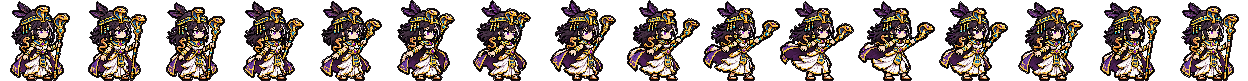
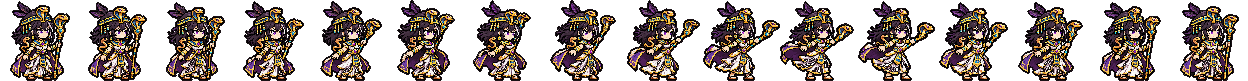
Babies & Beasts: gold Tan and gold Nin attack animations from the owner's GIFs
gif_anim.py now cuts the soft light fringe and background caught inside the
figure on white-background GIFs; Cleopatra's strip re-made with cleaner edges.

Claude-Session: https://claude.ai/code/session_01TXxUxRZvEUW5HuLc4se7D5

diff --git a/bb.html b/bb.html
@@ -832,7 +832,8 @@ const TKEY=['white','green','purple','red','gold'],KH=54,ALL5=['white','green','
   // or class_tier (curse_gold); n frames of cw x ch,
   // feet at (fx, fy), h0 = frame 1's height (drawn as tall as the form picture). Frame 0 = standing; frames before `hit` wind up
   // during the last `lead` s before a shot, the rest play for `post` s after it (both shrink when the kid shoots faster)
-  FANIM={cleo:{n:16,cw:78,ch:81,fx:36,fy:81,h0:80,hit:9,lead:.5,post:.45},wukong:{n:16,cw:76,ch:81,fx:32,fy:78,h0:73,hit:7,lead:.5,post:.45}},
+  FANIM={cleo:{n:16,cw:78,ch:81,fx:36,fy:81,h0:80,hit:9,lead:.5,post:.45},wukong:{n:16,cw:76,ch:81,fx:32,fy:78,h0:73,hit:7,lead:.5,post:.45},
+    warrior_gold:{n:16,cw:93,ch:109,fx:42,fy:104,h0:91,hit:6,lead:.5,post:.45},assassin_gold:{n:12,cw:115,ch:119,fx:57,fy:118,h0:118,hit:4,lead:.4,post:.4}},
   KPX={assassin_gold:[35,37],warrior_gold:[41,40],mage_gold:[37,47],support_gold:[30,55],curse_gold:[50,40],hunter_gold:[50,52]};
 function kidF(im){return im&&im.pxs&&im.naturalHeight?im.naturalHeight/(im.pxs>1?im.pxs:100):1}  // height factor for KPX pictures (pxs>1 = that many picture px per KH)
 // a kid picture on a small canvas: crop=true gives a square head shot (avatars), else the whole kid with room around
@@ -1143,7 +1144,7 @@ function drawKid(p,s,u,drag){const S=drag||SLOTS[s],T=TIER[u.t],im=formImg(u.f)|
     // pose (kidPose): face the target, class attack move, jumps and pops
     const f=P.f,sm=sc*SC*DPR<.95,OL=olCol(u,s);
     if(u.ua>0){const a=1-u.ua/.7;ctx.strokeStyle=u.b?BEAST[u.b].col:u.t===5?'rgb('+hsl2((G.t*300)%360)+')':u.t===4?'#ffd75a':CLS[u.c].col;ctx.globalAlpha=1-a;ctx.lineWidth=4;ctx.beginPath();ctx.ellipse(x,y,20+90*a,6+28*a,0,0,6.28);ctx.stroke();ctx.globalAlpha=1}
-    if(u.at>0&&u.c==='assassin')for(const g of [.35,.7]){ctx.save();ctx.globalAlpha=.22;ctx.translate(Math.round(x+P.dx*g),Math.round(y+P.dy*g+bob+2));if(sm){ctx.imageSmoothingEnabled=true;ctx.imageSmoothingQuality='high'}ctx.scale(f,1);ctx.drawImage(im,-Math.round(w/2),-Math.round(h),w,h);ctx.restore()}
+    if(u.at>0&&u.c==='assassin'&&!FA)for(const g of [.35,.7]){ctx.save();ctx.globalAlpha=.22;ctx.translate(Math.round(x+P.dx*g),Math.round(y+P.dy*g+bob+2));if(sm){ctx.imageSmoothingEnabled=true;ctx.imageSmoothingQuality='high'}ctx.scale(f,1);ctx.drawImage(im,-Math.round(w/2),-Math.round(h),w,h);ctx.restore()}
     if(u.at>0&&!FA&&(u.c==='mage'||u.c==='curse')){const a=1-u.at/ANIM[u.c];glow(x+P.dx+f*w*.38,y+P.dy-h*.78,20+14*Math.sin(Math.PI*a),u.c==='mage'?'255,170,80':'200,138,255',.55*Math.sin(Math.PI*a))}
     // attack picture in the middle of the swing (same pixel scale as the standing picture, feet lined up)
     let di=im,dw=w,dh=h,ox=-Math.round(w/2);if(u.at>0){const a=1-u.at/(ANIM[u.c]||.3),ai=(u.c==='warrior'?a>.42:a>.12&&a<.9)&&kidAtk(u.c,u.t);
@@ -1449,7 +1450,7 @@ if(HAS_DOM){
   $('#watch').addEventListener('click',()=>{$('#end').hidden=true});
   $('#toLobby').addEventListener('click',toLobby);
   // "what's new": opens once per update (bump VER and NEWS together)
-  const VER='2026-11-05i',NEWS=['🐒 ซุนหงอคงขยับได้แล้ว: ยกกระบองขึ้นเหนือหัวแล้วฟาดลงทุกครั้งที่ตี · ไม้ตายกระโดดก็ง้างกลางอากาศแล้วฟาดตอนลง','🐍 คลีโอพัตราขยับได้แล้ว: ยืนบนลานแล้วยกคทางูขึ้นฟาดทุกครั้งที่ยิงคำสาป (ภาพเคลื่อนไหวที่เจ้าของเกมส่งมา) · ไม้ตายเล่นท่าเต็มชุด','🟩 ทดลอง "ภาพพิกเซลเท่ากัน": กด ⏸ แล้วกดปุ่มเปิด/ปิด · เปิดแล้วทุกอย่างในสนามใช้พิกเซลขนาดเดียวกัน ขยายแบบเต็มจำนวนเท่า (ภาพคม ไม่เบลอ ไม่เบี้ยว) เลขดาเมจเป็นตัวพิกเซล · เด็กจะหยาบลง (เล็กลงมาเท่าพิกเซลแมพ) ลองแล้วบอกว่าชอบแบบไหน','🎲 สุ่มสนามทุกรอบ (ค่าเริ่มต้น) · ยังกดลูกศรที่ปุ่มแมพเลือกสนามเองได้ · 🦖 หน้าคำสั่งเจนรูปมีแท็บฟอร์มทีเร็กซ์ 6 ตัวแล้ว','✚ สนามใหม่ "สี่แยกกลางป่า": ทางวนรอบนอก + ทางผ่ากลางเป็นกากบาท ลานแบ่ง 4 ห้อง (ห้องละ 3×2 รวม 24 ช่อง) ทุกช่องมีทางผ่านใกล้ ๆ · เลือกที่ล็อบบี้ (ปุ่มเปลี่ยนแมพ)','🌈 เด็กแต่ละระดับดูเก่งขึ้นเป็นขั้น: เขียวมีวงเวท · ม่วงมีขอบเรือง · แดงมีไฟลุกหลังตัว · ทองมีรัศมีแสงกับวงเวททอง · รุ้งมีรัศมีสายรุ้ง ไฟหลากสี ขอบเปลี่ยนสี ตัวใหญ่ขึ้น · สัตว์ในตำนานมีลมหมุนสีเขียวมรกต','🗺 ช่องเล็กลง ทางเดินเข้ามาชิดลาน มุมทางมนขึ้น · รอบลานมีวิวแมพมากขึ้น','🐾 ตัวใหม่! สัตว์ในตำนาน 3 ตัว ผสมจากเด็กแดง 2 ตัว: 🦖 ไดโนเสาร์ = แทน + จันทร์ (กระทืบพื้น คำรามให้เพื่อนตีเร็ว ไม้ตายอุกกาบาตยักษ์) · 🐉 มังกร = ราตรี + ฟ้า (พ่นไฟตามทาง ไม้ตายพายุเพลิง) · 🦊 จิ้งจอกเก้าหาง = นิล + หมอก (ไฟจิ้งจอก ทำให้ปีศาจหลงตีกันเอง) · แตะเด็กแดงดูสูตร · รูปจริงกำลังมา','💥 มันส์ขึ้นแบบในคลิป: เลขดาเมจตัวใหญ่เอียง ไล่สี โดนแรงเลขยิ่งใหญ่ ตีรัวเลขซ้อนเป็นแถว · ไม้ตายจอสั่น แสงวาบ ภาพค้างแวบหนึ่ง (แทนลงพื้น พาวเวอร์ช็อต บอสตายแรงสุด)','✨ สกิลแบบพิกเซลชุดใหม่ แนวคลิปที่ส่งมา: แทนลงพื้นเป็นวังวนไฟ · นิลฟันกากบาทม่วง · ราตรีแช่แข็งเป็นดอกน้ำแข็ง ร่างทองเป็นโดมน้ำวน · จันทร์ริบบิ้นชมพูหมุนขึ้น · หมอกร่างทอง/คลีโอเป็นโดมมืด · ขงเบ้งฟ้าผ่าทอง · ฝนธนูมีผลึกเขียว','💥 ของที่คุณทำใน PixelLab เข้าเกมแล้ว: ระเบิด (ดาวตก บอสตาย) · ลูกพลังทอง (พาวเวอร์ช็อตของฟ้า) · ลูกพลาสมา (ราตรียิง) · หมอกพิษ (ไม้ตายหมอก)','📏 เด็กทุกตัวตัวเล็กลงอีก ลานดูโล่งขึ้น','📏 ฟอร์มวีรชนตัวเล็กลง พอดีช่อง ขนาดใกล้ร่างทอง','🎨 ฟอร์มวีรชนมีรูปครบทั้ง 6 ตัวแล้ว: ซุนหงอคง · ฮันโซ · โรบินฮู้ด · เมอร์ลิน · ขงเบ้ง · คลีโอพัตรา','🌈 ฟอร์มสายรุ้งครบ 6 ตัว (ชุดวีรชนที่ทุกคนรู้จัก): แทน → ซุนหงอคง · นิล → ฮัตโตริ ฮันโซ · ฟ้า → โรบินฮู้ด · ราตรี → เมอร์ลิน · จันทร์ → ขงเบ้ง · หมอก → คลีโอพัตรา · ปลดที่ 🧸 เด็กของฉัน','🌈 ฟอร์มสายรุ้งแรก: ฟ้า → โรบินฮู้ด · ปลดที่ 🧸 เด็กของฉัน (ชิ้นส่วนฟ้า 40) · ในเกม ฟ้าแดง 2 ตัว + ตัวที่แตะยิงครบ 500 ดอก → เปลี่ยนฟอร์ม · ปล้นเงินแก๊งที่รวยสุด ยิงทะลุทั้งแนว ฝนธนู 50 ดอก','🎁 ทาเลนต์หลังบอสชุดใหม่ 23 ใบ มีระดับ เงิน ทอง รุ้ง (บอสหลัง ๆ ได้ใบดีขึ้น): ช่องเพลิงลุก สายฟ้าโซ่ ปิดบัญชี เงาแฝด ช่องเติบโต มือทอง · เรียกแฝด กาชาโชคดี ดอกเบี้ย · ปีศาจระเบิดต่อกัน ราชาลาน ช่องรุ้งเจ็ดสี ฯลฯ','⏱ เกมยาวขึ้น (ประมาณ 16 นาที เดิม 12) ช่วงต้นเหมือนเดิม ปีศาจเก่งขึ้นช้าลงตอนกลางเกม','🐻 ไม้ตายใหม่ของแทน: กระโดดออกจากช่อง ไปทุบกลุ่มปีศาจที่หนาสุดบนทาง แล้วกระโดดกลับ · ร่างทองกระโดดทุบ 3 กลุ่มติดกัน','🗺 แมพสวยขึ้น สว่างขึ้น: ค่ายมีบ่อน้ำ ดอกไม้ ธงราว · สนามเด็กเล่นมีสนามหญ้า ต้นไม้ ตารางกระโดด · ชายหาดทรายสว่าง ผ้าเช็ดตัว รอยเท้า','🏹 ฟ้า: ลูกศรทะลุกับพาวเวอร์ช็อตพุ่งไปตามทางเดินปีศาจ (เดิมพุ่งขึ้นแนวตั้ง โดนตัวเดียว)','🌩 เอาปุ่มสกิลแก๊งออกก่อน (เก็บไว้ใส่ให้ตัวละครอื่น)','🎬 แทนขยับจริงแล้ว (ขาว เขียว ม่วง แดง): ยืนหายใจ กะพริบตา · ตีเงื้อค้อนทุบ 4 จังหวะ · ไม้ตายกระโดดทุบ · ตัวอื่นตามมา','🎬 เด็กขยับมากขึ้น: ยืนโยกตัว หายใจ ท่าตีเหวี่ยงแรงขึ้นทุกตัว (ภาพท่าหลายเฟรมกำลังตามมา)','🌩 ❄ 📯 สกิลแก๊ง 3 ปุ่มใหม่ (ด้านล่าง): ฟ้าผ่าตรงที่แตะ · แช่แข็งปีศาจทั้งสนาม · ปลุกใจเด็กทั้งลานตีเร็ว · ใช้แล้วรอคูลดาวน์ บอทก็ใช้','🔨 แทนมีท่าทุบแล้ว (ร่างขาว เขียว ม่วง แดง) · ตอนตีจะเปลี่ยนเป็นท่าเหวี่ยงค้อนจริง ๆ · เด็กตัวอื่นตามมาเร็ว ๆ นี้','💥 เอฟเฟกต์สกิลใหม่ 17 แบบ (จากชุด pixelfx): แทนทุบค้อน พื้นแตก · นิลฟันคู่ ฟันรัว · ฟ้าประกายศร คริ · ราตรีดาวตก ระเบิด นาฬิกาหยุดเวลา วงไฟ · จันทร์วงฮีลใหญ่ ขนนก · หมอกตราสาป ระเบิดมืด · รวมร่างแสงพลัง · ผสมทองเสาแสง · บอสตายระเบิด','⚡ ไม้ตายกดเองได้แล้ว: หลอดฟ้าเต็ม เด็กมีสายฟ้าขึ้น แตะเด็กเพื่อปล่อย เลือกจังหวะเอง (เก็บไว้ตอนบอสก็ได้) · ปุ่ม ⚡ ด้านล่างสลับเป็นออโต้ได้','🎬 เด็กขยับแล้ว: แต่ละคลาสมีท่าตีของตัวเอง (แทนเงื้อทุบ นิลพุ่งฟันมีเงา ฟ้าดึงธนูถอย ราตรีลอยร่าย จันทร์กระโดด หมอกโยกสาป) · เรียกเด็กตกลงมา · รวมร่างเพื่อนบินเข้าหา · ไม้ตายกระโดดสูง · ปีศาจเดินโยก ล้มแล้วจางหาย','✨ ร่างทองมาแล้ว! เด็กแดง + เด็กม่วง 2 ตัวตามสูตร → ร่างทอง ได้สกิลใหม่ 3 อย่างไม่ซ้ำกันเลย (ทุบมึน ปิดฉาก สามศร ไฟบนพื้น หยุดเวลา กระจกสาป ฯลฯ) · แตะเด็กแดงดูสูตร','🔍 ย่อลานกับเด็กลงอีก (ลาน 80% ของจอ เด็กเล็กลงอีกนิด)','🐦⬛ หมอกมีรูปจาก GPT ครบ 5 ระดับแล้ว: ชุดนอนกอดตุ๊กตาผ้า → กระดิ่งผีผ้าพันคอเขียว → ไม้เท้าลูกแก้วม่วง → ไม้เท้าตาแดง → ร่างทอง','🦉 ราตรีได้ร่างม่วง (คทาคริสตัล ผ้าคลุมดาว) กับร่างแดง (ไม้เท้าเปลวไฟ)','🐰 จันทร์มีรูปจาก GPT ครบ 5 ระดับแล้ว: ชุดนอนกอดตุ๊กตาแครอท → ตะกร้าแครอท → ไม้เท้าแครอทผ้าคลุมม่วง → ไม้เท้าหัวใจผ้าคลุมแดง → ร่างทอง','🐦⬛ หมอกร่างแดงมาแล้ว (ชุดอีกาดำแดง ไม้เท้าตาแดง)','🔍 ย่อลานกับเด็กลงหน่อย: ช่องเล็กลง เด็กไม่ล้นช่อง เห็นแมพรอบ ๆ มากขึ้น','🦅 ฟ้ามีรูปจาก GPT ครบ 5 ระดับแล้ว: ชุดนอนเหยี่ยวธนูจุกยาง → ธนูไม้ผ้าพันคอเขียว → หน้าไม้แว่นนักบิน → ธนูยาวผ้าคลุมแดง → ร่างทอง','🐻 แทนมีรูปจาก GPT ครบ 5 ระดับแล้ว: ชุดนอนหมีจุกหลอก → กระบองไม้ → ค้อนเหล็กผ้าคลุมม่วง → ค้อนศึกผ้าคลุมแดง → ร่างทอง','🌟 รูประดับทองใหม่ 5 ตัวจาก GPT: แทน ฟ้า ราตรี จันทร์ หมอก (ดูได้ที่ล็อบบี้ และในหน้าต่างเด็กของฉัน)','🗺 แมพสวยขึ้น ละเอียด 2 เท่า: ลานยกพื้น ไฟส่องสว่าง หมอกลอย ของตกแต่งเยอะขึ้น','🧸 แทน ราตรี จันทร์ หมอก มีรูปครบ 5 ระดับแล้ว (วาดด้วยโค้ด ชั่วคราว)','🟩 ลานกว้างขึ้น: แถวละ 7 ช่อง รวม 21 ช่อง (เดิม 18)','🔀 รวมร่างง่ายขึ้น: เด็กสีเดียวกัน 3 ตัว คลาสไหนก็ได้ ตัวที่แตะจะโตขึ้น','🏠 หน้าล็อบบี้ใหม่ · กด เล่น แล้วหาแก๊ง นับ 3-2-1','🗺 แมพ 3 แบบ เลือกที่ล็อบบี้ (ค่ายกลางป่า · สนามเด็กเล่นร้าง · หาดประภาคาร)','🔊 เสียงเอฟเฟกต์ + เพลงกล่อมเด็ก (ปิดได้ใน ⚙ ตั้งค่า)',
+  const VER='2026-11-05j',NEWS=['🐻 แทนทองยกค้อนแล้วทุบลงพื้น · 🐆 นิลทองพุ่งฟันมีดคู่ (ภาพเคลื่อนไหวจากเจ้าของเกม) · ขอบภาพคลีโอพัตราเนียนขึ้น','🐒 ซุนหงอคงขยับได้แล้ว: ยกกระบองขึ้นเหนือหัวแล้วฟาดลงทุกครั้งที่ตี · ไม้ตายกระโดดก็ง้างกลางอากาศแล้วฟาดตอนลง','🐍 คลีโอพัตราขยับได้แล้ว: ยืนบนลานแล้วยกคทางูขึ้นฟาดทุกครั้งที่ยิงคำสาป (ภาพเคลื่อนไหวที่เจ้าของเกมส่งมา) · ไม้ตายเล่นท่าเต็มชุด','🟩 ทดลอง "ภาพพิกเซลเท่ากัน": กด ⏸ แล้วกดปุ่มเปิด/ปิด · เปิดแล้วทุกอย่างในสนามใช้พิกเซลขนาดเดียวกัน ขยายแบบเต็มจำนวนเท่า (ภาพคม ไม่เบลอ ไม่เบี้ยว) เลขดาเมจเป็นตัวพิกเซล · เด็กจะหยาบลง (เล็กลงมาเท่าพิกเซลแมพ) ลองแล้วบอกว่าชอบแบบไหน','🎲 สุ่มสนามทุกรอบ (ค่าเริ่มต้น) · ยังกดลูกศรที่ปุ่มแมพเลือกสนามเองได้ · 🦖 หน้าคำสั่งเจนรูปมีแท็บฟอร์มทีเร็กซ์ 6 ตัวแล้ว','✚ สนามใหม่ "สี่แยกกลางป่า": ทางวนรอบนอก + ทางผ่ากลางเป็นกากบาท ลานแบ่ง 4 ห้อง (ห้องละ 3×2 รวม 24 ช่อง) ทุกช่องมีทางผ่านใกล้ ๆ · เลือกที่ล็อบบี้ (ปุ่มเปลี่ยนแมพ)','🌈 เด็กแต่ละระดับดูเก่งขึ้นเป็นขั้น: เขียวมีวงเวท · ม่วงมีขอบเรือง · แดงมีไฟลุกหลังตัว · ทองมีรัศมีแสงกับวงเวททอง · รุ้งมีรัศมีสายรุ้ง ไฟหลากสี ขอบเปลี่ยนสี ตัวใหญ่ขึ้น · สัตว์ในตำนานมีลมหมุนสีเขียวมรกต','🗺 ช่องเล็กลง ทางเดินเข้ามาชิดลาน มุมทางมนขึ้น · รอบลานมีวิวแมพมากขึ้น','🐾 ตัวใหม่! สัตว์ในตำนาน 3 ตัว ผสมจากเด็กแดง 2 ตัว: 🦖 ไดโนเสาร์ = แทน + จันทร์ (กระทืบพื้น คำรามให้เพื่อนตีเร็ว ไม้ตายอุกกาบาตยักษ์) · 🐉 มังกร = ราตรี + ฟ้า (พ่นไฟตามทาง ไม้ตายพายุเพลิง) · 🦊 จิ้งจอกเก้าหาง = นิล + หมอก (ไฟจิ้งจอก ทำให้ปีศาจหลงตีกันเอง) · แตะเด็กแดงดูสูตร · รูปจริงกำลังมา','💥 มันส์ขึ้นแบบในคลิป: เลขดาเมจตัวใหญ่เอียง ไล่สี โดนแรงเลขยิ่งใหญ่ ตีรัวเลขซ้อนเป็นแถว · ไม้ตายจอสั่น แสงวาบ ภาพค้างแวบหนึ่ง (แทนลงพื้น พาวเวอร์ช็อต บอสตายแรงสุด)','✨ สกิลแบบพิกเซลชุดใหม่ แนวคลิปที่ส่งมา: แทนลงพื้นเป็นวังวนไฟ · นิลฟันกากบาทม่วง · ราตรีแช่แข็งเป็นดอกน้ำแข็ง ร่างทองเป็นโดมน้ำวน · จันทร์ริบบิ้นชมพูหมุนขึ้น · หมอกร่างทอง/คลีโอเป็นโดมมืด · ขงเบ้งฟ้าผ่าทอง · ฝนธนูมีผลึกเขียว','💥 ของที่คุณทำใน PixelLab เข้าเกมแล้ว: ระเบิด (ดาวตก บอสตาย) · ลูกพลังทอง (พาวเวอร์ช็อตของฟ้า) · ลูกพลาสมา (ราตรียิง) · หมอกพิษ (ไม้ตายหมอก)','📏 เด็กทุกตัวตัวเล็กลงอีก ลานดูโล่งขึ้น','📏 ฟอร์มวีรชนตัวเล็กลง พอดีช่อง ขนาดใกล้ร่างทอง','🎨 ฟอร์มวีรชนมีรูปครบทั้ง 6 ตัวแล้ว: ซุนหงอคง · ฮันโซ · โรบินฮู้ด · เมอร์ลิน · ขงเบ้ง · คลีโอพัตรา','🌈 ฟอร์มสายรุ้งครบ 6 ตัว (ชุดวีรชนที่ทุกคนรู้จัก): แทน → ซุนหงอคง · นิล → ฮัตโตริ ฮันโซ · ฟ้า → โรบินฮู้ด · ราตรี → เมอร์ลิน · จันทร์ → ขงเบ้ง · หมอก → คลีโอพัตรา · ปลดที่ 🧸 เด็กของฉัน','🌈 ฟอร์มสายรุ้งแรก: ฟ้า → โรบินฮู้ด · ปลดที่ 🧸 เด็กของฉัน (ชิ้นส่วนฟ้า 40) · ในเกม ฟ้าแดง 2 ตัว + ตัวที่แตะยิงครบ 500 ดอก → เปลี่ยนฟอร์ม · ปล้นเงินแก๊งที่รวยสุด ยิงทะลุทั้งแนว ฝนธนู 50 ดอก','🎁 ทาเลนต์หลังบอสชุดใหม่ 23 ใบ มีระดับ เงิน ทอง รุ้ง (บอสหลัง ๆ ได้ใบดีขึ้น): ช่องเพลิงลุก สายฟ้าโซ่ ปิดบัญชี เงาแฝด ช่องเติบโต มือทอง · เรียกแฝด กาชาโชคดี ดอกเบี้ย · ปีศาจระเบิดต่อกัน ราชาลาน ช่องรุ้งเจ็ดสี ฯลฯ','⏱ เกมยาวขึ้น (ประมาณ 16 นาที เดิม 12) ช่วงต้นเหมือนเดิม ปีศาจเก่งขึ้นช้าลงตอนกลางเกม','🐻 ไม้ตายใหม่ของแทน: กระโดดออกจากช่อง ไปทุบกลุ่มปีศาจที่หนาสุดบนทาง แล้วกระโดดกลับ · ร่างทองกระโดดทุบ 3 กลุ่มติดกัน','🗺 แมพสวยขึ้น สว่างขึ้น: ค่ายมีบ่อน้ำ ดอกไม้ ธงราว · สนามเด็กเล่นมีสนามหญ้า ต้นไม้ ตารางกระโดด · ชายหาดทรายสว่าง ผ้าเช็ดตัว รอยเท้า','🏹 ฟ้า: ลูกศรทะลุกับพาวเวอร์ช็อตพุ่งไปตามทางเดินปีศาจ (เดิมพุ่งขึ้นแนวตั้ง โดนตัวเดียว)','🌩 เอาปุ่มสกิลแก๊งออกก่อน (เก็บไว้ใส่ให้ตัวละครอื่น)','🎬 แทนขยับจริงแล้ว (ขาว เขียว ม่วง แดง): ยืนหายใจ กะพริบตา · ตีเงื้อค้อนทุบ 4 จังหวะ · ไม้ตายกระโดดทุบ · ตัวอื่นตามมา','🎬 เด็กขยับมากขึ้น: ยืนโยกตัว หายใจ ท่าตีเหวี่ยงแรงขึ้นทุกตัว (ภาพท่าหลายเฟรมกำลังตามมา)','🌩 ❄ 📯 สกิลแก๊ง 3 ปุ่มใหม่ (ด้านล่าง): ฟ้าผ่าตรงที่แตะ · แช่แข็งปีศาจทั้งสนาม · ปลุกใจเด็กทั้งลานตีเร็ว · ใช้แล้วรอคูลดาวน์ บอทก็ใช้','🔨 แทนมีท่าทุบแล้ว (ร่างขาว เขียว ม่วง แดง) · ตอนตีจะเปลี่ยนเป็นท่าเหวี่ยงค้อนจริง ๆ · เด็กตัวอื่นตามมาเร็ว ๆ นี้','💥 เอฟเฟกต์สกิลใหม่ 17 แบบ (จากชุด pixelfx): แทนทุบค้อน พื้นแตก · นิลฟันคู่ ฟันรัว · ฟ้าประกายศร คริ · ราตรีดาวตก ระเบิด นาฬิกาหยุดเวลา วงไฟ · จันทร์วงฮีลใหญ่ ขนนก · หมอกตราสาป ระเบิดมืด · รวมร่างแสงพลัง · ผสมทองเสาแสง · บอสตายระเบิด','⚡ ไม้ตายกดเองได้แล้ว: หลอดฟ้าเต็ม เด็กมีสายฟ้าขึ้น แตะเด็กเพื่อปล่อย เลือกจังหวะเอง (เก็บไว้ตอนบอสก็ได้) · ปุ่ม ⚡ ด้านล่างสลับเป็นออโต้ได้','🎬 เด็กขยับแล้ว: แต่ละคลาสมีท่าตีของตัวเอง (แทนเงื้อทุบ นิลพุ่งฟันมีเงา ฟ้าดึงธนูถอย ราตรีลอยร่าย จันทร์กระโดด หมอกโยกสาป) · เรียกเด็กตกลงมา · รวมร่างเพื่อนบินเข้าหา · ไม้ตายกระโดดสูง · ปีศาจเดินโยก ล้มแล้วจางหาย','✨ ร่างทองมาแล้ว! เด็กแดง + เด็กม่วง 2 ตัวตามสูตร → ร่างทอง ได้สกิลใหม่ 3 อย่างไม่ซ้ำกันเลย (ทุบมึน ปิดฉาก สามศร ไฟบนพื้น หยุดเวลา กระจกสาป ฯลฯ) · แตะเด็กแดงดูสูตร','🔍 ย่อลานกับเด็กลงอีก (ลาน 80% ของจอ เด็กเล็กลงอีกนิด)','🐦⬛ หมอกมีรูปจาก GPT ครบ 5 ระดับแล้ว: ชุดนอนกอดตุ๊กตาผ้า → กระดิ่งผีผ้าพันคอเขียว → ไม้เท้าลูกแก้วม่วง → ไม้เท้าตาแดง → ร่างทอง','🦉 ราตรีได้ร่างม่วง (คทาคริสตัล ผ้าคลุมดาว) กับร่างแดง (ไม้เท้าเปลวไฟ)','🐰 จันทร์มีรูปจาก GPT ครบ 5 ระดับแล้ว: ชุดนอนกอดตุ๊กตาแครอท → ตะกร้าแครอท → ไม้เท้าแครอทผ้าคลุมม่วง → ไม้เท้าหัวใจผ้าคลุมแดง → ร่างทอง','🐦⬛ หมอกร่างแดงมาแล้ว (ชุดอีกาดำแดง ไม้เท้าตาแดง)','🔍 ย่อลานกับเด็กลงหน่อย: ช่องเล็กลง เด็กไม่ล้นช่อง เห็นแมพรอบ ๆ มากขึ้น','🦅 ฟ้ามีรูปจาก GPT ครบ 5 ระดับแล้ว: ชุดนอนเหยี่ยวธนูจุกยาง → ธนูไม้ผ้าพันคอเขียว → หน้าไม้แว่นนักบิน → ธนูยาวผ้าคลุมแดง → ร่างทอง','🐻 แทนมีรูปจาก GPT ครบ 5 ระดับแล้ว: ชุดนอนหมีจุกหลอก → กระบองไม้ → ค้อนเหล็กผ้าคลุมม่วง → ค้อนศึกผ้าคลุมแดง → ร่างทอง','🌟 รูประดับทองใหม่ 5 ตัวจาก GPT: แทน ฟ้า ราตรี จันทร์ หมอก (ดูได้ที่ล็อบบี้ และในหน้าต่างเด็กของฉัน)','🗺 แมพสวยขึ้น ละเอียด 2 เท่า: ลานยกพื้น ไฟส่องสว่าง หมอกลอย ของตกแต่งเยอะขึ้น','🧸 แทน ราตรี จันทร์ หมอก มีรูปครบ 5 ระดับแล้ว (วาดด้วยโค้ด ชั่วคราว)','🟩 ลานกว้างขึ้น: แถวละ 7 ช่อง รวม 21 ช่อง (เดิม 18)','🔀 รวมร่างง่ายขึ้น: เด็กสีเดียวกัน 3 ตัว คลาสไหนก็ได้ ตัวที่แตะจะโตขึ้น','🏠 หน้าล็อบบี้ใหม่ · กด เล่น แล้วหาแก๊ง นับ 3-2-1','🗺 แมพ 3 แบบ เลือกที่ล็อบบี้ (ค่ายกลางป่า · สนามเด็กเล่นร้าง · หาดประภาคาร)','🔊 เสียงเอฟเฟกต์ + เพลงกล่อมเด็ก (ปิดได้ใน ⚙ ตั้งค่า)',
     '🌟 เลเวลเด็ก 1–20 ติดตัวข้ามเกม: จบเกมได้ชิ้นส่วน ไปอัปที่ 🧸 เด็กของฉัน','📅 ภารกิจประจำวัน วันละ 3 อัน ได้ชิ้นส่วน','👹 บอส 4 แบบ ผลัดกันทุก 10 ระลอก (เรียกลูกน้อง · แตกร่าง · มีโล่) + แถบเลือดบอส',
     '⭐ MVP ตอนจบเกม · เด็กหันหาปีศาจที่ตี · คัตอินตอนใช้ไม้ตาย · ลูกศรเขียวบอกตัวที่รวมร่างได้','📱 เพิ่มลงหน้าจอโฮมได้ เปิดเต็มจอเหมือนแอป · มือถือกด เล่น แล้วเต็มจอ · สั่นตอนบอสมา',
     '🖼 นิลครบ 5 ระดับ · หน้าคำสั่งเจนรูปเด็กและปีศาจ (🧸 เด็กของฉัน → 📝 คำสั่งเจนรูป)'];

diff --git a/docs/bb-prompts.html b/docs/bb-prompts.html
@@ -289,7 +289,7 @@ const GIFC={warrior:'He swings the big hammer up over his head and smashes it do
   mage:'She lifts the moon staff high, the crescent moon lights up, then she points the staff forward to cast a spell, then returns to standing.',
   support:'He waves the crystal carrot scepter forward in a happy cheer, a little hop, then holds it up proudly.',
   curse:'She raises the eye-orb staff, her wings flare open, then she swings the staff forward to throw a curse, then folds back to standing.'};
-const GIFDONE=['cleo','wukong'];  // GIFs already in the game (art/bb/fanim_<key>.png)
+const GIFDONE=['cleo','wukong','warrior_gold','assassin_gold'];  // GIFs already in the game (art/bb/fanim_<key>.png)
 const gifTail=' Stay in place (no walking away), the whole body and the weapon always inside the picture, start and end in the same standing pose so it loops.';
 {const b=document.createElement('button');b.className='tab';b.type='button';b.textContent='🎬 ท่าโจมตี GIF';const i=KIDS.length+6;b.onclick=()=>show(i);tabs.appendChild(b);
   const d=document.createElement('div');d.className='kid';

diff --git a/tools/art/gif_anim.py b/tools/art/gif_anim.py
@@ -2,7 +2,7 @@
 """An animation GIF (white or see-through background, a "pixel art" character resized to a non-whole scale, e.g. the owner's
 Cleopatra_Attack_4_Directions_GIF) -> one strip of true pixel frames for the game.
 
-  python3 -I tools/art/gif_anim.py <in.gif> <out.png> [grid range, default 1.8,4]
+  python3 -I tools/art/gif_anim.py <in.gif> <out.png> [grid range, default 1.8,4] [light cut, default 200]
 
 - the background (near-white, joined to the border) is cut from every frame; white clothes inside the outline stay
 - ONE pixel grid is found for the whole animation (edge profile summed over all frames, same method as gptpx.py),
@@ -18,6 +18,7 @@ from scipy import ndimage as nd
 
 src, out = sys.argv[1], sys.argv[2]
 GR = [float(v) for v in (sys.argv[3] if len(sys.argv) > 3 else '1.8,4').split(',')]
+LIGHT = int(sys.argv[4]) if len(sys.argv) > 4 else 200   # white-background cut: lighter than this (old rule: 226)
 raw = [np.array(f.convert('RGBA')).astype(int) for f in ImageSequence.Iterator(Image.open(src))]
 # a see-through background (e.g. Wukong's GIF) is used as it is; the colours sit on white for the grid search
 CLEAR = all((r[:, :, 3] < 128).mean() > .2 for r in raw)
@@ -28,10 +29,19 @@ H, W, _ = frames[0].shape
 def figure(A, R):
     if CLEAR:
         return keep_big(R[:, :, 3] > 127)
-    near = (A.min(2) > 226) & (A.max(2) - A.min(2) < 26)
+    # light grey joined to the border = background + its soft fringe (else white specks ring the outline)
+    near = (A.min(2) > LIGHT) & (A.max(2) - A.min(2) < 30)
     lab, n = nd.label(near)
     edge = set(np.unique(np.r_[lab[0], lab[-1], lab[:, 0], lab[:, -1]])) - {0}
-    return keep_big(~np.isin(lab, list(edge)))
+    fig = ~np.isin(lab, list(edge))
+    # background caught inside the figure (between an arm and a hammer): exactly the border colour and not tiny
+    bg = np.median(np.r_[A[0], A[-1], A[:, 0], A[:, -1]], 0)
+    hole = fig & (np.abs(A - bg).max(2) <= 5)
+    hl, hn = nd.label(hole)
+    if hn:
+        hs = nd.sum(hole, hl, range(1, hn + 1))
+        fig &= ~np.isin(hl, np.where(hs > 120)[0] + 1)
+    return keep_big(fig)
 
 
 def keep_big(fig):
@@ -88,6 +98,22 @@ for A, fig in zip(frames, figs):
             img[j, i, :3] = A[a0:a1, b0:b1][m][v == c].mean(0).round()
             img[j, i, 3] = 255
     cells.append(img)
+
+# white background: light grey cells just outside a dark outline are the old soft edge, not the figure
+if not CLEAR:
+    N4 = [[0, 1, 0], [1, 1, 1], [0, 1, 0]]
+    for c in cells:
+        for _ in range(2):
+            al = c[:, :, 3] > 0
+            rgb = c[:, :, :3].astype(int)
+            edge = al & nd.binary_dilation(~al, structure=N4)
+            grey = (rgb.max(2) - rgb.min(2) < 28) & (rgb.mean(2) > 120)
+            dark = al & (rgb.mean(2) < 75)
+            near_dark = nd.binary_dilation(dark, structure=np.ones((3, 3)))
+            cut = edge & grey & near_dark
+            if not cut.any():
+                break
+            c[cut] = 0
 
 # merge near-identical shades over the whole animation (most common first)
 allc = np.concatenate([c[c[:, :, 3] > 0][:, :3] for c in cells])

diff --git a/CLAUDE.md b/CLAUDE.md
@@ -4,7 +4,7 @@ The owner speaks Thai. Reply in Thai, short and plain (they are not a programmer
 
 ## >>> Current project: Babies & Beasts (`bb.html`) <<<
 Since 2026-11-03 the owner works on the new game **Babies & Beasts: สัญญาณสุดท้าย** — a 5-player elimination tower defense (kids in animal costumes vs nightmare demons). Design, decisions and GPT prompts: `docs/babies-and-beasts.md` (read it first). Code: `bb.html` (single file, same rules as below: exact-string patches, Thai UI). bb.html map: data (`CLS` incl. `kid` names, `TIER`, `MON`, `TALS`, `MAPS`) · rules (`newGame(o)`, `startWave`, `stepBoard`, `botThink`) · drawing (`makeBg(map)` per-map pixel background 1 px = 4 units reaching `EX`/`EY` past the board, `drawMapFx`, `drawKid`) · HUD (`updHud`, `--hs` scale on big screens) · lobby inside the second `if(HAS_DOM)` block (`lobbyScene`/`drawLobby`, `kidsModal`, `howModal`, `storyModal`, `renameModal`, `startMatch`, `pauseModal`, `toLobby`; saved with `LS`/`LOB` = localStorage `bb.*`) · sound `SFX` (synth, no files) · kid levels `KLV`/`PERK`/`klv()`/`perk()` (shards at match end in `recordResult`, level-up in `kidsModal`; bots get ~80% of the player's average). Merge rule: any 3 kids of the same tier merge (owner), the tapped kid grows (`mates`/`merge`). Gold (tier 4, `TIER[4]`) is a special unit made by recipe (owner): a red kid + 2 purple kids of the classes in `GOLD[c].rec` (`fuseParts`/`canFuse`/`fuse`, one gold per class per board); each gold kid keeps its class skills and adds 3 new ones (`GOLD[c].pas/proc/ult`, all different kinds; gold ult in `goldUlt`, burning ground `p.zones`, timers `p.moonT/ampT/stopT`, `m.markT`, sends through `sendTo` so gold Mok can bounce them). Rainbow tier = forms (`TIER[5]`, `FORMS`, owner 2026-11-04): unlocked in the kids window with shards (`LOB.prog.forms`, passed as `newGame({forms})`, bots get the same), then in a match 2 red kids of that class + the tapped one has `u.shots` ≥ `FORMS[k].shots` → `toForm`; `u.f` = form key; six forms, heroes everyone knows (owner): Tan → Sun Wukong, Nin → Hattori Hanzo, Fah → Robin Hood, Ratri → Merlin, Chan → Kongming, Mok → Cleopatra (`formUlt`; hooks in `attack`, `hitMon` (`m.hz`, Cleo poison `m.poison`), stepBoard (Merlin `u.mlT`, `p.kong` read in `rateOf`/`dmgOf`), Robin's robbery in `startWave`); `vb`/`uw` = the count words in the popup; prompts `docs/bb-prompts.html#forms` (attach the gold picture; second forms proposed in `FORM2` there, pictures not in yet, the game still has one form per class), short prompts for website generators like PixelLab in `#web` (also Ratri white/green); picture `art/bb/form_<key>.png`, `art` = picture px per `KH` (0 = none yet; GPT draws forms on a ~6 px grid, convert with `GPTPX_GRID=5.2,6.4`, art ≈ 190); all six have pictures (Kongming's was on a ~9.4 px grid, so the default converter grid and art 130). Legendary beasts (owner 2026-11-05): `BEAST` dino/dragon/fox, made from 2 red kids of the partner classes (`beastParts/canBeast/toBeast`, one of each per board), `u.t=6` (`TIER[6]`), `u.b` = beast, `u.c` = its main class; own attack/ult `beastAtk/beastUlt`, fox charm `charm`/`m.charmT`, dino roar `p.roarT`, dragon `p.dragon`; picture `art/bb/beast_<key>.png` + `BEAST[k].art` (none yet: main kid's red picture + emoji badge), prompts `docs/bb-prompts.html#beast`. Talents after bosses (`TALS`, 23, rarity `r` 1–3 silver/gold/rainbow, one rarity per offer, later bosses roll higher; tile cards act through `u.tl` + `tHas` in `hitMon`/`attack`, the rest through `p.tal`; `hitMon(...,sub)` stops burn/chain/blast from re-triggering). Match length: `BAL` hpG 1.16 sdW 24 sdG 1.15 ≈ 15.6 min (owner: the game ended too fast at ~12). Tan's red/gold ult is a leap onto the thickest group and back (`startLeap`/`stepLeap`/`leapPos`, `u.leap`; gold = 3 leaps). Avoid knock-back style skills: demons loop forever, so their spot on the path doesn't matter. Field layouts (owner 2026-11-05: other fields, straight roads, through the middle): `LAYOUTS` (`loop` = straight sides hugging one 7×3 yard; `cross` = outer loop + a cross through the middle, 4 rooms of 3×2 = 24 slots, one route covering every lane), picked per map by `MAPS[].lay` (`th` = which map painter; the lobby default `LOB.map='rand'` picks a random map every match, owner), `setLayout` at `newGame` sets `COLS ROWS NSLOT CELL PATH SEG PLEN SLOTS`, `makeBg` uses `layOf(map)` with several rooms; the code handles any polyline route: `pathPos` binary search, `lanePts(n)` = evenly spread points for effects): anything that "pierces a line" must run along the path the target walks on (`laneHits` walks the path by distance and returns `pts` for a curved `streak`), not on from the kid's shot direction. Slots are smaller (owner): loop cells 82×89, cross 82×72; cell size in `CELL`. Map road painted from the field `PF/PA/PH` in `makeBg` (corner discs round the outer corners), `inner(n,f)` puts small props between road and yard. **Pixel-art rendering rules (owner 2026-11-05, from a pixel-art tips post; follow them for new work):** nearest filter everywhere, no lossy sprites; one base resolution scaled only by whole numbers (black bars for the rest); camera and sprites snapped to whole pixels; ONE pixel size for everything (no sprite/tile/effect/UI scaled by anything but 1); no runtime rotation of pixel art (drawn rotations or 90° steps); pixel fonts at native size, no antialiasing; effects on the same grid; check every new asset at 1x next to a tile. In the game this is the switchable pixel-perfect view (`PXG` = world units per screen pixel, 2 = the map's own pixel; `?px=2` or the pause-menu button saves `bb.px`): the world is drawn into the buffer `PB` and blown up by a whole number `PXK`; kids are shrunk with `pxImg` (majority colour + 1-px outline), no tilt/squash, snapped; damage numbers from `glyph`. Still breaking the rules when it is off: kid pictures at different pixel densities (0.3–0.7 units/px), fractional board scale, smoothing, rotation/squash in `kidPose`. Tier look in `drawKid`: ground sigils `TSG`, outlines `TOL`/`silOf`, back auras `TAU_` (sheets from `skillfx.py`, `drawLoop`). Gang skills are OFF (`GSK_ON=false`, owner 2026-11-04: keep them for other characters later); when on (every gang, buttons 🌩 ❄ 📯 in the bar): `GSK` data, `useGsk(p,k,x,y)`, cooldowns `p.gsk`, rally timer `p.rallyT`, lightning aim `G.aim` + `onLoop`; lightning damage follows the strongest kid (not demon HP, which made matches endless); bots use them in `botThink`. The player's red/gold ults wait for a tap on the kid (`G.autoUlt` off by default, ⚡ button in the bar, saved as `bb.autoUlt`; `castReady`; bots always auto). Skill effects: own pixel set drawn by `tools/art/skillfx.py` (soft light shapes → pixel grid → colour ramp steps; `nslash fswirl gburst ibloom adome pswirl ddome glight`, owner 2026-11-05 wants Sword x Staff-style skills as pixels) and the owner's PixelLab VFX Creator packs brought in with `tools/art/pixellab_import.py` (`blast`, Fah's bolt `ebc`/`ebolt`/`ebhit`, Ratri's shot `porb`, Mok's `pcloud`); `addFx(...,dl)` starts an effect late. Hit feel like the clip: `dmgNum` (big slanted damage numbers, size by damage, stacking), `punch(p,flash,freeze,shake)` (`G.wf` white flash, `G.hs` hit-stop in the frame loop, `p.quakeT` two-axis shake). Older `fx/` sheets from pixelfx (MIT, https://github.com/patch-gg/pixelfx, 244 effects); 30 are in, import more with `tools/art/pixelfx_import.py` (steps at its top; running the downloaded pixelfx tool needs the owner's OK). Animation is code-driven (one still picture per kid): `kidPose` (breathing, per-class attack move timed by `ANIM`, ult jump `u.ua`, merge pop `u.pop`, summon drop `u.drop`), merge flights `p.fly`, dying demons `p.dying`, demon waddle in `drawMon`. Balance check: `node tools/sim/bb_sim.js 10 [--klv N]` (5 bots; knobs in `BAL`, bot styles in `STYLES`). Kid art: `art/bb/kid_<class>.png`, plus per-tier pictures `art/bb/kid_<class>_<white|green|purple|red|gold>.png` listed in `KART` (missing tier → nearest lower tier's picture; drawn `KH`(54)×`TIER.sc` tall, see `KPX` below; the board is drawn at 80% of the space it could fill (`SC` in `onResize`); owner asked twice on 2026-11-03 for smaller kids and slots: 90%/70 then 80%/64, and on 2026-11-04 for smaller kids again: `KH` 54, forms `TIER[5].sc` 1.02). Pixel art facing right; the owner makes them with GPT, then they are snapped to GPT's own pixel grid (majority colour per block, near-identical shades merged, 1-px dark outline). Nin has all five tiers (`kid_assassin_*.png`). Tan (`warrior`), Fah (`hunter`), Chan (`support`) and Mok (`curse`) have all five GPT tiers too; Ratri (`mage`) has GPT purple, red and gold, and her white + green are still code-drawn stand-ins (`KTEMP`; SVG in `tools/art/kids/kids.html` → `node tools/art/kids/shot.js <dir> each` → `python3 tools/art/kids/px2.py <dir> <out> 100` → `python3 tools/art/kids/gold_recolor.py art/bb`, since the owner said the gold tier need not be gold); `KTEMP[class]` lists the tiers still code-drawn; replace them with GPT pictures when they arrive and drop those tiers from the list. All six GPT gold pictures are in (2026-11-03); they are listed in `KPX` (shared pixel scale 100 px = `KH`, value = face centre for avatar crops). A missing tier borrows the nearest LOWER tier's picture (higher only if nothing lower). `GPTPX_HALO=1` makes `gptpx.py` cut a pale glow round the figure. `gptpx.py` cuts big enclosed white areas only when they look like the background (bright, no tint), so white fur (Chan) stays; `GPTPX_HOLE=<px>` brings back the old size-only rule. Some GPT pictures use a ~6–7 px grid instead of 9–16 px (the default search then lands on twice the real size and small details turn to mush): `GPTPX_GRID=5.5,8` searches that range; compare both versions. Maps: `makeBg` draws at `Q`=2 units/px with layers (ground, ring, raised yard + wall, outlined props, light pools); vignette/fog drawn per frame in `drawMapFx`. Demon pictures: `art/bb/mon_<key>.png` + add the key to `MART` (drawn at the code sprite's height). Prompt page for kids and demons: `docs/bb-prompts.html`. Bosses: `BOSSES`/`bossOf()` with tricks in `MON` (`summon`, `split`, `shield`, `rage`); daily missions `MISS`/`mprog()`; MVP from `u.dmg`; the lobby's "what's new" window shows once per `VER` (bump `VER` and edit `NEWS` together after each batch). Converter: `python3 tools/art/gptpx.py in.png out.png 14` (numpy, pillow, scipy). GPT draws "reverse grip" daggers coming out of the sleeve; the owner wants them like gold Nin (karambit: ring on top of the fist, blade out of the bottom of the fist, curving back toward the body) — `tools/art/nin_fixgrip.py` mode `revm` fixes a picture, and the prompts in the docs now say so. Live: https://boxchaychan.github.io/last-signal-pvp/bb.html (GitHub Pages from `main`).
-Form attack animations from the owner's GIFs (2026-11-05, Cleopatra first): `tools/art/gif_anim.py <gif> art/bb/fanim_<form>.png 1.8,4` (white background cut, one pixel grid for the whole clip, prints the numbers) → `FANIM[key]` {n,cw,ch,fx,fy,h0,hit,lead,post}, key from `fanimKey(u)` = form (`cleo`), beast (`dino`) or class_tier (`curse_gold`), the converter also prints a `hit` guess (first frame reaching furthest forward); prompts for the other forms and the gold kids in `docs/bb-prompts.html#gif` (tab 🎬, `GIFM`/`GIFC`, mark finished ones in `GIFDONE`); `fanimOf`/`fanimFrame` in drawKid (frame 0 = standing, frames before `hit` wind up during the last `lead` s before a shot via `u.cd`/`u.atL`, the rest play for `post` s after it via `u.at`/`u.atP`, whole clip during the ult jump, wind-up frame in the air and strike on landing during the leap ult); only the Right GIF is used (code flips); white or see-through backgrounds. In: cleo, wukong. Attack-pose pictures `art/bb/kid_<class>_<tier>_atk.png` listed in `AKART` (tier → size factor, so the kid looks as big as in the standing picture); `drawKid` swaps to it mid-attack with the feet lined up (`feetX`, `kidAtk`). Animation sheets (3 rows × 4 frames: idle, attack, special) `art/bb/anim_<class>_<tier>.png` listed in `ANIMS` (cw, ch, h0) replace the standing picture and the code-made moves (`animOf`, `IDLE_SEQ`); made with `gptpx.py` (`GPTPX_GRID=2.8,3.8`) then `tools/art/anim_sheet.py`; prompts and references in `docs/bb-prompts.html#anim`. Tan has sheets for white–red. Tan has single attack pictures for white–red too (older, used only where no sheet). **Open work (2026-11-03, owner moved to the PC):** see "งานค้าง" in `docs/babies-and-beasts.md` (attack-pose pictures + their prompts, Ratri white/green, gang skills idea, controlling the PC to generate in ChatGPT).
+Form attack animations from the owner's GIFs (2026-11-05, Cleopatra first): `tools/art/gif_anim.py <gif> art/bb/fanim_<form>.png 1.8,4` (white background cut, one pixel grid for the whole clip, prints the numbers) → `FANIM[key]` {n,cw,ch,fx,fy,h0,hit,lead,post}, key from `fanimKey(u)` = form (`cleo`), beast (`dino`) or class_tier (`curse_gold`), the converter also prints a `hit` guess (first frame reaching furthest forward); prompts for the other forms and the gold kids in `docs/bb-prompts.html#gif` (tab 🎬, `GIFM`/`GIFC`, mark finished ones in `GIFDONE`); `fanimOf`/`fanimFrame` in drawKid (frame 0 = standing, frames before `hit` wind up during the last `lead` s before a shot via `u.cd`/`u.atL`, the rest play for `post` s after it via `u.at`/`u.atP`, whole clip during the ult jump, wind-up frame in the air and strike on landing during the leap ult); only the Right GIF is used (code flips); white or see-through backgrounds (white: light grey joined to the border is cut, background caught inside the figure is cut, light grey edge cells outside a dark outline are dropped). In: cleo, wukong, warrior_gold, assassin_gold. Pictures pasted straight into the chat arrive as one still frame; GIFs need to come as files or a zip. Attack-pose pictures `art/bb/kid_<class>_<tier>_atk.png` listed in `AKART` (tier → size factor, so the kid looks as big as in the standing picture); `drawKid` swaps to it mid-attack with the feet lined up (`feetX`, `kidAtk`). Animation sheets (3 rows × 4 frames: idle, attack, special) `art/bb/anim_<class>_<tier>.png` listed in `ANIMS` (cw, ch, h0) replace the standing picture and the code-made moves (`animOf`, `IDLE_SEQ`); made with `gptpx.py` (`GPTPX_GRID=2.8,3.8`) then `tools/art/anim_sheet.py`; prompts and references in `docs/bb-prompts.html#anim`. Tan has sheets for white–red. Tan has single attack pictures for white–red too (older, used only where no sheet). **Open work (2026-11-03, owner moved to the PC):** see "งานค้าง" in `docs/babies-and-beasts.md` (attack-pose pictures + their prompts, Ratri white/green, gang skills idea, controlling the PC to generate in ChatGPT).
 **The old city game (`index.html`, everything below this section) is frozen** (owner: "อันเก่าคงไม่ทำแล้ว"). Keep its files; don't develop it unless asked.
 
 ## What the game is

diff --git a/docs/babies-and-beasts.md b/docs/babies-and-beasts.md
@@ -192,6 +192,7 @@
 - ในเกม: ยืน = เฟรม 0 / ก่อนยิง 0.5 วิ เล่นเฟรม 0–8 (ง้างคทา) / หลังยิง 0.45 วิ เล่นเฟรม 9–15 (ฟาด) / ยิงเร็วขึ้นท่าก็เร็วขึ้น / ไม้ตายเล่นครบ 16 เฟรม / ภาพฟอร์มเดิมยังใช้ในหน้าต่างเด็กและฉากไม้ตาย
 - ฟอร์มอื่นทำแบบเดียวกันได้: ส่ง GIF ท่าโจมตีหันขวา พื้นขาวเรียบ ตัวเต็มตัวไม่ตกขอบ
 - ซุนหงอคงเข้าแล้ว (GIF 16 เฟรม พื้นโปร่ง ฟาดที่เฟรม 7 / ไม้ตายกระโดด: กลางอากาศใช้เฟรมง้าง ลงพื้นใช้เฟรมฟาด) · gif_anim.py รับพื้นโปร่งได้แล้ว / ภาพที่ส่งในแชตเป็นรูปตรงๆ (โรบินฮู้ด ฮันโซ) มาเป็นภาพนิ่งภาพเดียว ต้องส่งเป็นไฟล์ zip แบบคลีโอพัตรา
+- แทนทอง (ทุบค้อน ฟาดเฟรม 6) + นิลทอง (ฟันมีดคู่ 12 เฟรม ฟาดเฟรม 4) เข้าแล้ว · ตัวแปลงตัดขอบเทาและพื้นขาวที่ติดในตัวได้แล้ว / ฟ้าทองส่งมาเป็นภาพนิ่ง (webp พื้นดำ) ยังไม่ได้ใส่ / เจ้าของเกมอยากให้ Claude คุม PC เจนเอง: เซสชันบนคลาวด์นี้ไม่มีเครื่องมือคุมเครื่อง ต้องเปิด Computer use ในแอป Claude บน PC
 - เจ้าของเกม "ตัวอื่นก็ทำพร้อมท่ามาเลย" → หน้าคำสั่ง `docs/bb-prompts.html#gif` (แท็บ 🎬 ท่าโจมตี GIF): ฟอร์มอีก 5 ตัว + ร่างทอง 6 ตัว แต่ละตัวมีรูปให้โหลด + คำอธิบายท่าภาษาอังกฤษ / เกมรับ GIF ได้ทุกตัวแล้ว (ฟอร์ม สัตว์ในตำนาน หรือเด็กแต่ละระดับ เช่น `curse_gold`) ได้ GIF มาแค่แปลง + ใส่ตัวเลขใน `FANIM` + ใส่ชื่อใน `GIFDONE`
 
 ## ภาพพิกเซลเท่ากัน (2026-11-05, เจ้าของเกมส่งกฎการวาดพิกเซลอาร์ต + คลิปตัวอย่าง "Blurry / Lumpy / Pasted together")
